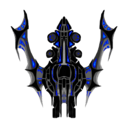
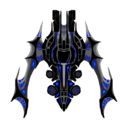
added the enemies to the game

diff --git a/space_invader/screen/Screen.py b/space_invader/screen/Screen.py
@@ -5,11 +5,14 @@ from pygame import QUIT
 from pygame import quit
 from pygame.display import update
 from pygame import init
+from pygame.display import set_icon
+from pygame.display import set_caption
 from pygame.sprite import Sprite
 from pygame.surface import Surface
 from pygame.time import Clock
-from entity.Bullet import Direction
+from entity.Entity import Direction
 from entity.PlayerEntity import PlayerEntity
+from entity.EnemyEntity import EnemyEntity
 
 
 class Screen:
@@ -17,10 +20,13 @@ class Screen:
     Main screen of the game
     """
     __bg_img = "assets/space_background.png"
+    __ic     = "assets/icon.png"
     __HOSTING = False
     __CLIENTS = 0
+    __enemies = []
     __players = []
     __bullets = []
+    __enemy_bullets = []
 
     delta = 0
 
@@ -29,12 +35,16 @@ class Screen:
         self.WINDOW_WIDTH = width
         self.WINDOW_HEIGHT = height
         self.__background = load(self.__bg_img)
+        self.__icon = load(self.__ic)
         self.SCREEN = set_mode((width, height))
         self.CLOCK = Clock()
+        set_caption("Space Invader")
+        set_icon(self.__icon)
         self.start_game()
 
     def start_game(self):
         self.__players.append(PlayerEntity(self))
+        self.__enemies.append(EnemyEntity(self))
 
     # when a player joins the game
     def join_game(self):
@@ -71,13 +81,33 @@ class Screen:
 
         # draw every bullets in the screen
         for bullet in self.__bullets:
-            bullet.draw()
-            if bullet.y < 0 and bullet.DIRECTION.UP == Direction.UP:
+            if bullet.y < 0 and bullet.DIRECTION == Direction.UP:
                 self.__bullets.remove(bullet)
+            else:
+                bullet.draw()
 
+        # draw every enemy in the screen
+        for enemy in self.__enemies:
+            if enemy.y > self.WINDOW_HEIGHT:
+                self.__enemies.remove(enemy)
+            else:
+                enemy.draw()
+
+        # draw every enemy bullets in the screen
+        for bullet in self.__enemy_bullets:
+            if bullet.y > self.WINDOW_HEIGHT and bullet.DIRECTION == Direction.DOWN:
+                self.__enemy_bullets.remove(bullet)
+            else:
+                bullet.draw()
+        print("bullet: ", len(self.__enemy_bullets))
+        print("enemy: ", len(self.__enemies))
 
     @property
     def bullets(self):
         return self.__bullets
+
+    @property
+    def enemy_bullets(self):
+        return self.__enemy_bullets
 
         

diff --git a/space_invader/entity/EnemyEntity.py b/space_invader/entity/EnemyEntity.py
@@ -1,16 +1,39 @@
 from entity.Entity import Entity
+from entity.Entity import Entities
+from entity.Entity import Direction
+from entity.Bullet import Bullet
+from random import randint as rand
+from pygame.image import load
 
 class EnemyEntity(Entity):
     """Enemy class for the game THE BAD GUYS THAT LOOKS PRETTY GOOD"""
 
-    def __init__(self):
-        pass
+    __ewidth = 128
+    __eheight = 128
+    __enemy_entity = [load("assets/enemy_blue.png"), load("assets/enemy_white.png")]
+
+    def __init__(self, screen):
+        self.screen = screen
+        self.__entity = self.__enemy_entity[rand(0, 1)]
+        self.rect = self.__entity.get_rect()
+
+        # random position
+        self.__pos_x = rand(0, self.screen.WINDOW_WIDTH - self.__ewidth)
+        self.__pos_y = -128 # we don't want the entity to just appear right away.
+        
+
+    @property
+    def y(self):
+        return self.__pos_y
 
     def fire(self):
-        pass
+        if len(self.screen.enemy_bullets) < 100:
+            bullet = Bullet(self.screen, self.__pos_x, self.__pos_y + self.__eheight, Direction.DOWN, Entities.ENEMY)
+            self.screen.enemy_bullets.append(bullet)
 
     def draw(self):
-        pass
+        self.__pos_y += 25 * self.screen.delta
+        self.screen.SCREEN.blit(self.__entity, (self.__pos_x, self.__pos_y))
 
     def explode(self):
         pass

diff --git a/space_invader/entity/PlayerEntity.py b/space_invader/entity/PlayerEntity.py
@@ -3,8 +3,8 @@ from pygame import (KEYDOWN, K_s, K_w, K_d, K_a, K_SPACE)
 from pygame.key import get_pressed
 from entity.Entity import Entity
 from entity.Bullet import Bullet
-from time import sleep
-from entity.Bullet import Direction
+from entity.Entity import Entities
+from entity.Entity import Direction
 
 class PlayerEntity(Entity):
     """A PlayerEntity class for every player in the game"""
@@ -17,21 +17,17 @@ class PlayerEntity(Entity):
         self.screen = screen
         self.__img = "assets/spaceship.png"
         self.__entity = load(self.__img)
-
+        self.rect = self.__entity.get_rect()
         self.__pos_x = self.screen.WINDOW_WIDTH / 2 - (self.__ewidth // 2)
         self.__pos_y = self.screen.WINDOW_HEIGHT - (self.__eheight + 50)
-
-    def time_delta(self):
-        mills = get_ticks()
 
     def draw(self):
         self.screen.SCREEN.blit(self.__entity, (self.__pos_x, self.__pos_y))
 
     def fire(self):
         if len(self.screen.bullets) < 20:
-            bullet = Bullet(self.screen, self.__pos_x, self.__pos_y, Direction.UP)
+            bullet = Bullet(self.screen, self.__pos_x, self.__pos_y, Direction.UP, Entities.HERO)
             self.screen.bullets.append(bullet)
-
 
     def move(self):
         keys = get_pressed()

diff --git a/space_invader/entity/Bullet.py b/space_invader/entity/Bullet.py
@@ -1,9 +1,6 @@
-from enum import Enum
 from pygame.image import load
-
-class Direction(Enum):
-    UP = 1
-    DOWN = 2
+from entity.Entity import Entities
+from entity.Entity import Direction
 
 class Bullet(object):
     """bullets that will be drawn in the screen"""
@@ -11,19 +8,20 @@ class Bullet(object):
     __ewith   = 64
     __eheight = 55
 
-    def __init__(self, screen, x, y, direction:Direction):
-        self.__img = "assets/bullet.png"
+    def __init__(self, screen, x, y, direction, source):
+        self.__img = "assets/bullet.png" if source == Entities.HERO else "assets/enemy_bullet.png"
         self.__entity = load(self.__img)
+        self.rect = self.__entity.get_rect()
         self.screen = screen
         self.DIRECTION = direction
         self.y = y 
         self.__x = x + self.__ewith / 2
 
     def draw(self):
-        if self.DIRECTION.UP:
+        if self.DIRECTION == Direction.UP:
             self.y -= 200 * self.screen.delta
         else:
-            self.y += 200 * self.screen.delta
+            self.y += 50 * self.screen.delta
         self.screen.SCREEN.blit(self.__entity, (self.__x, self.y))
 
 

diff --git a/space_invader/entity/Entity.py b/space_invader/entity/Entity.py
@@ -1,4 +1,18 @@
 from abc import ABC, abstractmethod
+from enum import Enum
+
+class Direction(Enum):
+    UP = 1
+    DOWN = 2
+
+class Entities(Enum):
+    HERO = 1
+    ENEMY = 2
+
+class GameState(Enum):
+    PAUSE = 1
+    RESUME = 2 
+    QUIT = 3
 
 class Entity(ABC):
     """
